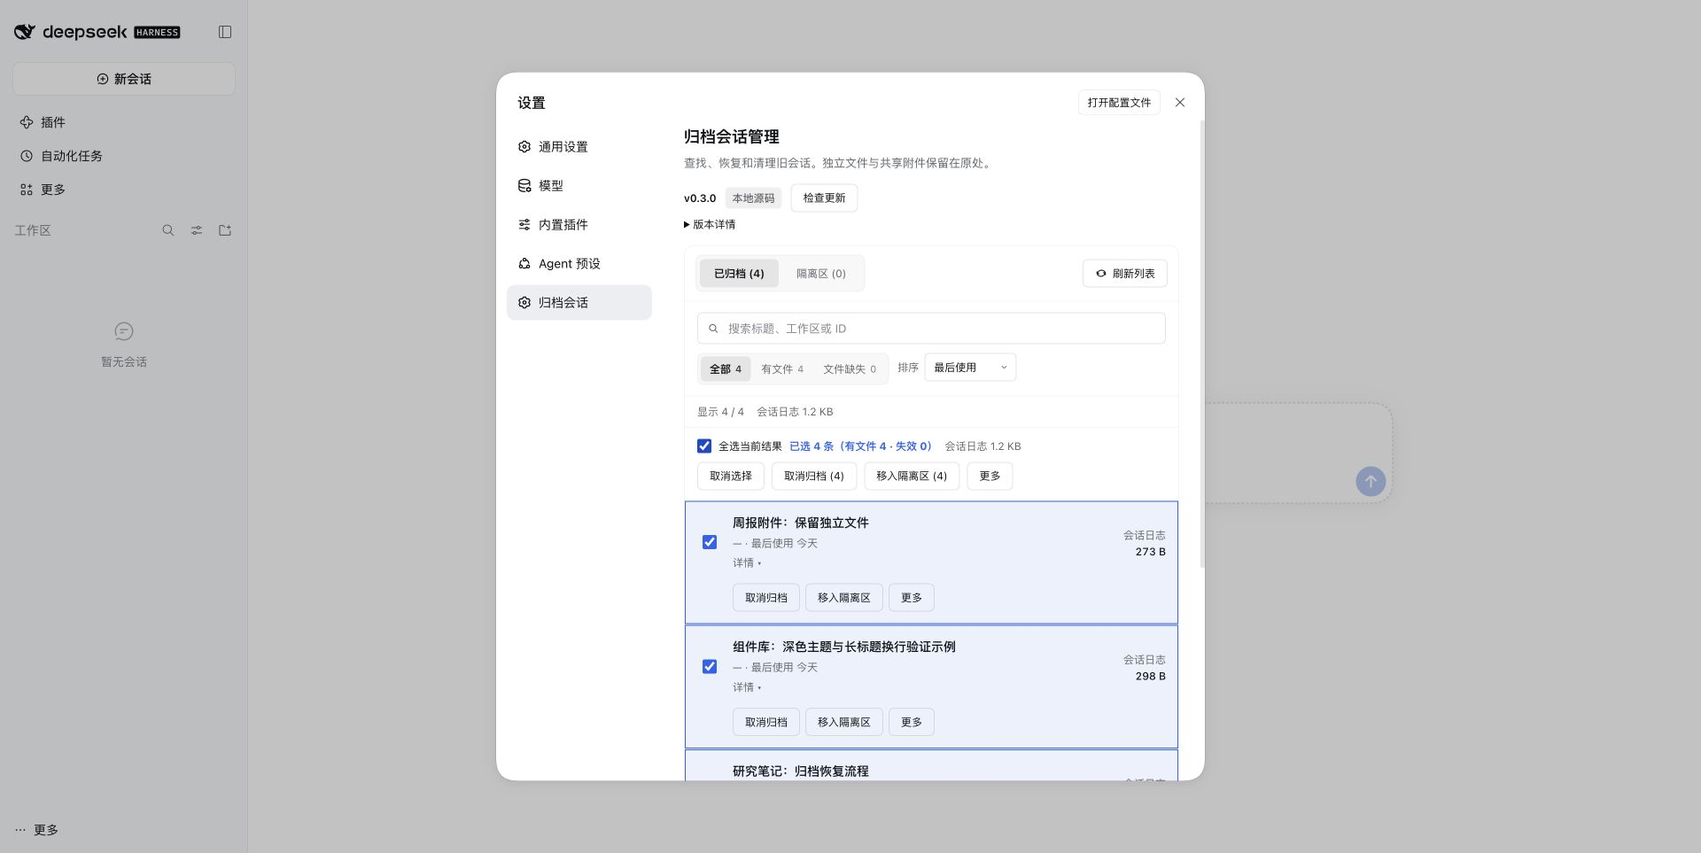
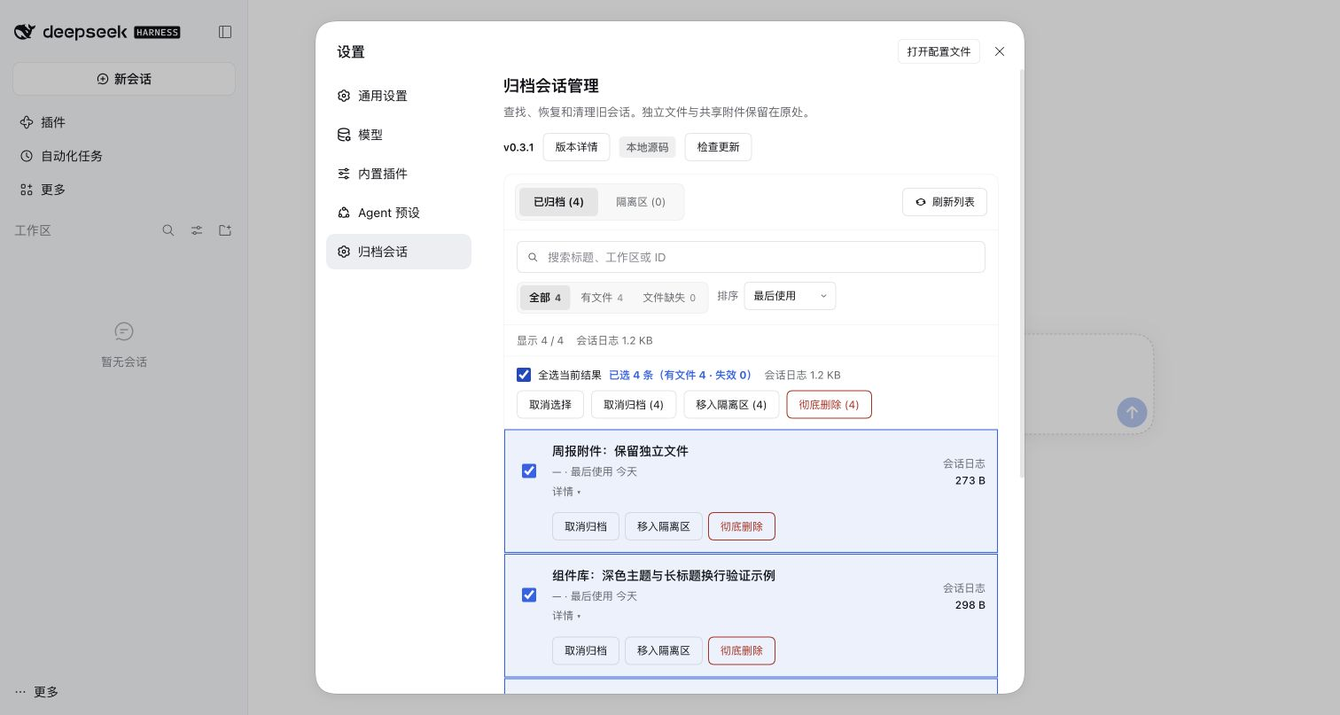
fix: keep version details inline and expose delete actions

diff --git a/client/index.js b/client/index.js
@@ -10,7 +10,7 @@ window.__ModuleLoader__.load({ id: "dsh-archived-manager", factory: (require) =>
 	var useEffect = React.useEffect;
 
 	var API = "/archived-manager";
-	var CLIENT_VERSION = "0.3.0";
+	var CLIENT_VERSION = "0.3.1";
 	var MAX_BATCH = 200;
 	var LANG = typeof navigator !== "undefined" && navigator.language ? String(navigator.language).toLowerCase() : "";
 	var ZH = LANG.indexOf("zh") === 0;
@@ -178,7 +178,6 @@ window.__ModuleLoader__.load({ id: "dsh-archived-manager", factory: (require) =>
 		errSchedule: "提醒停止失败",
 		errGeneric: "操作失败",
 		clearSelection: "取消选择",
-		more: "更多",
 		details: "详情",
 		files: "已记录的关联文件",
 		loadFiles: "查看关联文件",
@@ -414,7 +413,6 @@ window.__ModuleLoader__.load({ id: "dsh-archived-manager", factory: (require) =>
 		errSchedule: "Failed to stop reminders",
 		errGeneric: "The operation failed",
 		clearSelection: "Clear selection",
-		more: "More",
 		details: "Details",
 		files: "Recorded associated files",
 		loadFiles: "View associated files",
@@ -741,10 +739,10 @@ window.__ModuleLoader__.load({ id: "dsh-archived-manager", factory: (require) =>
 		"@media (max-width:860px){.am-row{grid-template-columns:24px minmax(0,1fr)}.am-row-actions{grid-column:2;justify-self:start;padding-top:6px}.am-row-plain{grid-template-columns:minmax(0,1fr)}.am-row-plain .am-row-actions{grid-column:1}}",
 		"@media (max-width:720px){.am-search{flex-basis:100%}.am-sort{margin-left:auto}}",
 		".am-page{gap:14px;min-width:0}.am-workbench{container-type:inline-size}",
-		".am-head{flex-wrap:wrap;gap:12px}.am-head-text{flex:1 1 270px}.am-version{flex:0 1 420px;min-width:0;font-size:12px;line-height:1.6}.am-version-line,.am-update-result{display:flex;align-items:center;gap:10px;flex-wrap:wrap}.am-version-label{font-weight:600}.am-version-details{margin-top:4px}.am-version-details summary{cursor:pointer;width:max-content}.am-version a{color:var(--am-accent);text-decoration:underline}.am-update-result{margin-top:6px}.am-help{font-size:12px;line-height:1.6;color:var(--am-text-secondary)}",
+		".am-head{flex-wrap:wrap;gap:12px}.am-head-text{flex:1 1 270px}.am-version{flex:0 1 420px;min-width:0;font-size:12px;line-height:1.6}.am-version-line,.am-update-result{display:flex;align-items:center;gap:10px;flex-wrap:wrap}.am-version-label{font-weight:600}.am-version-details{margin-top:8px;padding:8px 10px;border:1px solid var(--dsw-alias-border-l1,rgba(127,127,127,.16));border-radius:8px}.am-version a{color:var(--am-accent);text-decoration:underline}.am-update-result{margin-top:6px}.am-help{font-size:12px;line-height:1.6;color:var(--am-text-secondary)}",
 		".am-summary{display:flex;gap:14px;flex-wrap:wrap;padding:9px 14px;color:var(--am-text-secondary);font-size:12px;border-bottom:1px solid var(--dsw-alias-border-l1,rgba(127,127,127,.12))}.am-toolbar{gap:8px}.am-selected-count{font-size:12px;font-weight:700;color:var(--am-accent)}.am-batch-limit{flex-basis:100%;color:var(--am-warning);font-size:12px}.am-notice{padding:9px 14px;font-size:12px;color:var(--am-text-secondary);border-bottom:1px solid var(--dsw-alias-border-l1,rgba(127,127,127,.12))}",
 		".am-list{overflow:visible}.am-row{grid-template-columns:28px minmax(120px,1fr) minmax(64px,90px) auto;gap:12px;padding:14px}.am-row-title{display:-webkit-box;-webkit-line-clamp:2;-webkit-box-orient:vertical;white-space:normal;overflow:hidden;overflow-wrap:anywhere;border:0;padding:0;background:transparent;color:var(--am-text-primary);text-align:left;cursor:pointer;font:inherit;font-size:14px;font-weight:500;line-height:1.5}.am-row-title:focus-visible,.am-page summary:focus-visible,.am-search-clear:focus-visible{outline:2px solid var(--am-accent);outline-offset:3px}.am-titleline{align-items:flex-start}.am-check-target{display:flex;width:28px;min-height:28px;align-items:center;justify-content:center;cursor:pointer}.am-check{margin:0}.am-log-size{display:flex;flex-direction:column;gap:2px;align-items:flex-end;font-size:12px;font-variant-numeric:tabular-nums}.am-log-size strong{font-weight:500}.am-badge{font-size:12px}.am-row-actions{gap:6px;max-width:100%}",
-		".am-more{position:relative;display:inline-flex}.am-action-menu{position:absolute;right:0;top:calc(100% + 5px);z-index:100;min-width:170px;max-width:min(300px,70vw);padding:4px;border:1px solid var(--dsw-alias-border-l2,rgba(127,127,127,.3));border-radius:10px;background:var(--am-surface);box-shadow:0 8px 24px rgba(0,0,0,.2)}.am-action-menu .am-select-option{white-space:normal;overflow-wrap:anywhere}.am-danger-text{color:var(--am-danger)}.am-warning-text{color:var(--am-warning);overflow-wrap:anywhere}.am-select-option:disabled{color:var(--am-text-tertiary);cursor:not-allowed}.am-details{grid-column:2/-1;min-width:0;padding-top:10px;border-top:1px solid var(--dsw-alias-border-l1,rgba(127,127,127,.16));font-size:12px;line-height:1.6}.am-path{overflow-wrap:anywhere;white-space:pre-wrap;user-select:text}.am-file-list{display:flex;flex-direction:column;gap:8px;margin-top:12px}.am-file-list p{margin:0}.am-file{display:flex;flex-direction:column;align-items:flex-start;gap:5px;padding:10px;border:1px solid var(--dsw-alias-border-l1,rgba(127,127,127,.16));border-radius:8px;min-width:0}.am-file>div{max-width:100%}.am-report-item{white-space:normal;overflow-wrap:anywhere;overflow:visible}.am-report-actions{gap:8px;flex-wrap:wrap}.am-retention-settings{display:flex;align-items:center;gap:10px;flex-wrap:wrap;flex-basis:100%}.am-retention-hint{min-width:0}.am-search{min-width:0}.am-modal{background:var(--am-surface)}.am-modal-actions{flex-wrap:wrap}.am-chip:disabled{cursor:not-allowed;color:var(--am-text-tertiary)}",
+		".am-warning-text{color:var(--am-warning);overflow-wrap:anywhere}.am-select-option:disabled{color:var(--am-text-tertiary);cursor:not-allowed}.am-details{grid-column:2/-1;min-width:0;padding-top:10px;border-top:1px solid var(--dsw-alias-border-l1,rgba(127,127,127,.16));font-size:12px;line-height:1.6}.am-path{overflow-wrap:anywhere;white-space:pre-wrap;user-select:text}.am-file-list{display:flex;flex-direction:column;gap:8px;margin-top:12px}.am-file-list p{margin:0}.am-file{display:flex;flex-direction:column;align-items:flex-start;gap:5px;padding:10px;border:1px solid var(--dsw-alias-border-l1,rgba(127,127,127,.16));border-radius:8px;min-width:0}.am-file>div{max-width:100%}.am-report-item{white-space:normal;overflow-wrap:anywhere;overflow:visible}.am-report-actions{gap:8px;flex-wrap:wrap}.am-retention-settings{display:flex;align-items:center;gap:10px;flex-wrap:wrap;flex-basis:100%}.am-retention-hint{min-width:0}.am-search{min-width:0}.am-modal{background:var(--am-surface)}.am-modal-actions{flex-wrap:wrap}.am-chip:disabled{cursor:not-allowed;color:var(--am-text-tertiary)}",
 		"@container (max-width:820px){.am-row{grid-template-columns:28px minmax(0,1fr) auto}.am-row-actions{grid-column:2/-1;justify-self:start;justify-content:flex-start;padding-top:2px}.am-log-size{grid-column:3;grid-row:1}.am-details{grid-column:2/-1}.am-search{flex-basis:100%}.am-controls{align-items:flex-start}.am-sort{margin-left:0}}",
 		"@container (max-width:480px){.am-row{grid-template-columns:28px minmax(0,1fr);gap:8px}.am-log-size{grid-column:2;grid-row:auto;flex-direction:row;gap:8px;align-items:baseline}.am-row-actions{grid-column:2;flex-wrap:wrap}.am-btn{white-space:normal;height:auto;min-height:32px;padding:6px 10px;line-height:1.4}.am-row-title{-webkit-line-clamp:3}.am-filter{flex-wrap:wrap}.am-viewbar{gap:6px}.am-tab{padding:0 10px}.am-head{display:block}.am-version{margin-top:10px}.am-time{white-space:normal}.am-details{grid-column:1/-1}.am-modal-backdrop{padding:12px}}",
 	].join("\n");
@@ -838,6 +836,8 @@ window.__ModuleLoader__.load({ id: "dsh-archived-manager", factory: (require) =>
 		var updateError = updateErrorState[0], setUpdateError = updateErrorState[1];
 		var removedWarningsState = useState([]);
 		var removedWarnings = removedWarningsState[0], setRemovedWarnings = removedWarningsState[1];
+		var versionDetailsState = useState(false);
+		var versionDetails = versionDetailsState[0], setVersionDetails = versionDetailsState[1];
 		var locked = busy || Boolean(update && update.busy) || updatePhase === "preparing" || phase !== "ready";
 		var actionRef = React.useRef(false);
 		var updateRef = React.useRef(false);
@@ -923,7 +923,7 @@ window.__ModuleLoader__.load({ id: "dsh-archived-manager", factory: (require) =>
 		useEffect(function () {
 			if (menu === null || !menuRef.current) return;
 			var target = menuRef.current.querySelector('[aria-selected="true"]')
-				|| menuRef.current.querySelector('[role="option"]') || menuRef.current.querySelector('[role="menuitem"]:not(:disabled)');
+				|| menuRef.current.querySelector('[role="option"]');
 			if (target && typeof target.focus === "function") target.focus();
 		}, [menu]);
 
@@ -1358,7 +1358,7 @@ window.__ModuleLoader__.load({ id: "dsh-archived-manager", factory: (require) =>
 				setToast({ kind: "bad", text: tr("batchLimit") });
 				return;
 			}
-			returnFocusRef.current = menu && menuTriggerRef.current ? menuTriggerRef.current : document.activeElement;
+			returnFocusRef.current = document.activeElement;
 			setMenu(null);
 			setConfirm(value);
 		}
@@ -1369,29 +1369,6 @@ window.__ModuleLoader__.load({ id: "dsh-archived-manager", factory: (require) =>
 			} }, label);
 		}
 
-		function moreMenu(id, actions, label) {
-			var open = menu === id;
-			return h("div", { key: id, className: "am-more" }, [
-				h("button", { key: "trigger", type: "button", className: "am-btn", disabled: locked, "aria-haspopup": "menu", "aria-expanded": open,
-					onClick: function (event) { if (locked || actionRef.current) return; menuTriggerRef.current = event.currentTarget; setMenu(open ? null : id); },
-					onKeyDown: function (event) { if (event.key === "ArrowDown" && !locked) { event.preventDefault(); menuTriggerRef.current = event.currentTarget; setMenu(id); } }
-				}, label || tr("more")),
-				open ? h("div", { key: "menu", className: "am-action-menu", role: "menu", ref: menuRef, "aria-label": label || tr("more"), onKeyDown: function (event) {
-					if (!menuRef.current) return;
-					var nodes = Array.prototype.slice.call(menuRef.current.querySelectorAll('[role="menuitem"]:not(:disabled)'));
-					var current = nodes.indexOf(document.activeElement), next;
-					if (event.key === "ArrowDown") next = (current + 1) % nodes.length;
-					else if (event.key === "ArrowUp") next = (current + nodes.length - 1) % nodes.length;
-					else if (event.key === "Home") next = 0;
-					else if (event.key === "End") next = nodes.length - 1;
-					if (next !== undefined && nodes[next]) { event.preventDefault(); nodes[next].focus(); }
-				} }, actions.map(function (action) {
-					return h("button", { key: action.key, type: "button", role: "menuitem", className: "am-select-option am-danger-text", disabled: locked || action.disabled,
-						onClick: function () { if (!locked && !action.disabled && !actionRef.current) action.run(); }
-					}, action.label);
-				})) : null
-			]);
-		}
 
 		function fileKey(item) { return item.batch ? keyOf(item) : item.id; }
 		function fileRequest(item) { return item.batch ? { id: item.id, batch: item.batch } : { id: item.id }; }
@@ -1492,7 +1469,7 @@ window.__ModuleLoader__.load({ id: "dsh-archived-manager", factory: (require) =>
 			var actions = item.running ? h("span", { className: "am-help" }, tr("runningLocked")) : item.missing
 				? button("cleanup", tr("cleanup"), function () { openConfirm({ kind: "cleanup", ids: [item.id], checked: true }); }, locked)
 				: [button("unarchive", tr("unarchive"), function () { runUnarchive([item.id]); }, locked), button("hide", tr("hide"), function () { openConfirm({ kind: "hide", ids: [item.id], checked: true }); }, locked),
-					moreMenu("more-" + item.id, [{ key: "purge", label: tr("purge"), run: function () { openConfirm({ kind: "purge", ids: [item.id], checked: false }); } }])];
+					button("purge", tr("purge"), function () { openConfirm({ kind: "purge", ids: [item.id], checked: false }); }, locked, true)];
 			return h("div", { key: item.id, className: "am-row" + (checked ? " selected" : ""), role: "listitem" }, [
 				h("label", { key: "check", className: "am-check-target" }, h("input", { type: "checkbox", className: "am-check", checked: checked, disabled: locked || Boolean(item.running), onChange: function () { if (!item.running) toggle(item.id); }, "aria-label": item.title || item.id })),
 				rowMain(item, false),
@@ -1507,7 +1484,7 @@ window.__ModuleLoader__.load({ id: "dsh-archived-manager", factory: (require) =>
 				rowMain(entry, true),
 				h("div", { key: "size", className: "am-log-size", title: entry.sizeWarning || entry.protectionReason }, [h("span", { key: "label", className: "am-help" }, tr("logSize")), h("strong", { key: "value" }, logSizeText(entry, true))]),
 				h("div", { key: "actions", className: "am-row-actions" }, [button("restore", tr("restore"), function () { runRestore([{ batch: entry.batch, id: entry.id }]); }, locked),
-					moreMenu("more-" + key, [{ key: "discard", label: tr("purge"), run: function () { openConfirm({ kind: "discard", items: [{ batch: entry.batch, id: entry.id }], checked: false }); } }])]),
+					button("discard", tr("purge"), function () { openConfirm({ kind: "discard", items: [{ batch: entry.batch, id: entry.id }], checked: false }); }, locked, true)]),
 				details(entry, true)
 			]);
 		}
@@ -1557,15 +1534,16 @@ window.__ModuleLoader__.load({ id: "dsh-archived-manager", factory: (require) =>
 			return h("div", { key: "version", className: "am-version" }, [
 				h("div", { key: "line", className: "am-version-line" }, [
 					h("span", { key: "version", className: "am-version-label" }, mismatch ? tr("pendingUpdate") : confirmed ? "v" + CLIENT_VERSION : tr("versionChecking", { version: CLIENT_VERSION })),
+					h("button", { key: "details-toggle", type: "button", className: "am-btn am-version-toggle", "aria-expanded": versionDetails, "aria-controls": "am-version-details", onClick: function () { setVersionDetails(!versionDetails); } }, tr("versionDetails")),
 					source === "link" ? h("span", { key: "source", className: "am-badge muted" }, tr("localSource")) : null,
 					button("check", updatePhase === "checking" ? tr("checkingUpdate") : tr("checkUpdate"), checkUpdate, updatePhase !== "" || Boolean(update && update.busy))
 				]),
-				h("details", { key: "details", className: "am-version-details" }, [h("summary", { key: "summary" }, tr("versionDetails")),
+				versionDetails ? h("div", { key: "details", id: "am-version-details", className: "am-version-details" }, [
 					h("div", { key: "page" }, tr("pageVersion") + "：v" + CLIENT_VERSION),
 					h("div", { key: "runtime" }, tr("serviceVersion") + "：" + (update && update.runtimeVersion || tr("notProvided"))),
 					h("div", { key: "installed" }, tr("installedVersion") + "：" + (update && update.installedVersion || tr("notProvided"))),
 					h("div", { key: "source" }, tr("source") + "：" + sourceText)
-				]),
+				]) : null,
 				updateError ? h("div", { key: "error", className: "am-warning-text", role: "status" }, updateError) : null,
 				update && update.busy ? h("div", { key: "busy", role: "status" }, tr("updateBusy")) : null,
 				release ? h("div", { key: "release", className: "am-update-result" }, [
@@ -1924,14 +1902,14 @@ window.__ModuleLoader__.load({ id: "dsh-archived-manager", factory: (require) =>
 				actions.push(button("clear", tr("clearSelection"), function () { if (actionRef.current) return; if (isRemoved) setRemovedSelected([]); else setSelected([]); }, locked));
 				if (isRemoved) {
 					actions.push(button("restore", tr("restore") + " (" + targets.length + ")", function () { runRestore(targets); }, locked || targets.length > MAX_BATCH));
-					actions.push(moreMenu("removed-batch", [{ key: "discard", label: tr("purge") + " (" + targets.length + ")", disabled: targets.length > MAX_BATCH, run: function () { openConfirm({ kind: "discard", items: targets, checked: false }); } }]));
+					actions.push(button("discard", tr("purge") + " (" + targets.length + ")", function () { openConfirm({ kind: "discard", items: targets, checked: false }); }, locked || targets.length > MAX_BATCH, true));
 				} else {
 					if (filesIds.length > 0) {
 						actions.push(button("unarchive", tr("unarchive") + " (" + filesIds.length + ")", function () { runUnarchive(filesIds, missingIds); }, locked || filesIds.length > MAX_BATCH));
 						actions.push(button("hide", tr("hide") + " (" + filesIds.length + ")", function () { openConfirm({ kind: "hide", ids: filesIds, ignored: missingIds.length, ignoredIds: missingIds, checked: true }); }, locked || filesIds.length > MAX_BATCH));
 					}
 					if (missingIds.length > 0) actions.push(button("cleanup", tr("cleanup") + " (" + missingIds.length + ")", function () { openConfirm({ kind: "cleanup", ids: missingIds, checked: true }); }, locked || missingIds.length > MAX_BATCH));
-					if (filesIds.length > 0) actions.push(moreMenu("archived-batch", [{ key: "purge", label: tr("purge") + " (" + filesIds.length + ")", disabled: filesIds.length > MAX_BATCH, run: function () { openConfirm({ kind: "purge", ids: filesIds, ignored: missingIds.length, ignoredIds: missingIds, checked: false }); } }]));
+					if (filesIds.length > 0) actions.push(button("purge", tr("purge") + " (" + filesIds.length + ")", function () { openConfirm({ kind: "purge", ids: filesIds, ignored: missingIds.length, ignoredIds: missingIds, checked: false }); }, locked || filesIds.length > MAX_BATCH, true));
 				}
 			}
 			return h("div", { key: "toolbar", className: "am-toolbar" }, [
@@ -1965,7 +1943,7 @@ window.__ModuleLoader__.load({ id: "dsh-archived-manager", factory: (require) =>
 			return h("div", { key: "retention", className: "am-retention" }, [
 				h("span", { key: "summary", className: "am-retention-label" }, tr("retentionSummary", { value: settings.unavailable ? tr("notProvided") : settings.trashRetentionDays > 0 ? tr("retentionAfter", { n: settings.trashRetentionDays }) : tr("retentionDisabled") })),
 				button("settings", tr("settings"), function () { setRetentionExpanded(!retentionExpanded); }, locked || settings.unavailable),
-				removed.length > 0 ? moreMenu("quarantine-global", [{ key: "empty", label: tr("emptyTrash") + " (" + removed.length + ")", run: function () { openConfirm({ kind: "empty", items: removedItems(removed), checked: false }); } }], tr("tabRemoved") + " · " + tr("more")) : null,
+				removed.length > 0 ? button("empty", tr("emptyTrash") + " (" + removed.length + ")", function () { openConfirm({ kind: "empty", items: removedItems(removed), checked: false }); }, locked, true) : null,
 				retentionExpanded ? h("div", { key: "settingsPanel", className: "am-retention-settings" }, [h("span", { key: "title" }, tr("retentionTitle")), dropdown("retention", String(settings.trashRetentionDays || 0), [{ value: "0", label: tr("retentionNever") }, { value: "7", label: tr("retentionDays", { n: 7 }) }, { value: "30", label: tr("retentionDays", { n: 30 }) }, { value: "90", label: tr("retentionDays", { n: 90 }) }], changeRetention, tr("retentionLabel"), false), h("span", { key: "hint", className: "am-retention-hint" }, tr("retentionHint"))]) : null
 			]);
 		}

diff --git a/README.md b/README.md
@@ -26,7 +26,7 @@
 2. 输入以下 spec：
 
    ```text
-   github:chen1pengvincent/dsh-archived-manager#v0.3.0
+   github:chen1pengvincent/dsh-archived-manager#v0.3.1
    ```
 
 3. 安装后**完全退出并重新打开 DSH**，再硬刷新页面（macOS：`Cmd+Shift+R`）。
@@ -63,7 +63,7 @@ link:/absolute/path/to/dsh-archived-manager
 | 彻底删除 | 永久删除已确认的会话数据，需确认 | 使用“清理失效记录” |
 | 清理失效记录 | 不适用 | 只移除归档记录 |
 
-运行中的会话不可选择或删除；请先停止对应会话。取消归档与移入隔离区为直接入口，彻底删除收进“更多”。顶部摘要紧凑显示当前数量和日志大小。
+运行中的会话不可选择或删除；请先停止对应会话。取消归档、移入隔离区和彻底删除均为直接入口；彻底删除仍需在确认框中核对范围并确认不可恢复。顶部摘要紧凑显示当前数量和日志大小。版本详情与版本号同排，点击或通过键盘展开后可查看页面、服务和安装版本。
 
 ### 选中与高亮契约
 
@@ -84,7 +84,7 @@ link:/absolute/path/to/dsh-archived-manager
 
 - 单独或批量**恢复**到原会话目录；
 - 单独或批量**彻底删除**；
-- 在全局“更多”中**清空隔离区全部会话**，包含搜索隐藏的项；
+- 使用独立的**清空隔离区**按钮处理全部隔离会话，包含搜索隐藏的项；
 - 配置自动保留期限。开启自动清理需要二次确认，保存后立即检查过期条目。
 
 危险操作使用模态确认框，并要求勾选不可恢复确认。界面语言跟随 **DSH → 设置 → 通用 → 语言**，旧版缺少 locale 服务时才回退到浏览器语言。
@@ -177,6 +177,12 @@ npm pack
 
 测试覆盖 Host 文件操作、路径与路由安全、归档/隔离/恢复/删除、保留策略、Client 设置页注册、搜索筛选、模态框、选中行高亮（全选/单选/无选择）、隔离区高亮、深浅主题和 WCAG 对比度。GitHub Actions 对 push 和 pull request 自动运行测试。
 
+### v0.3.1
+
+- 版本详情与版本号同排，收起时不再单独占一行；保留点击与键盘展开。
+- 单条与批量的彻底删除改为直接按钮，清空隔离区保留独立的全局入口；确认范围、不可恢复确认及操作期间禁用保持不变。
+- 更新真实 DSH 测试会话的深浅主题截图。
+
 ### v0.3.0
 
 - 重排列表与紧凑摘要，统一归档和隔离区的选择反馈，强调已选数量。
@@ -200,7 +206,7 @@ npm pack
 Open **DSH → Settings → Plugins → Install** and enter:
 
 ```text
-github:chen1pengvincent/dsh-archived-manager#v0.3.0
+github:chen1pengvincent/dsh-archived-manager#v0.3.1
 ```
 
 Fully restart DSH after installation, hard-refresh the Web UI, then open **Settings → Archived Sessions**. Node.js 24+ is needed only for development and tests.
@@ -217,7 +223,9 @@ The recorded-files view shows structured delivery/write/edit paths and can open 
 
 Manual updates use a separate control page that survives removal of the target plugin, verifies the pinned release package before removal, and offers retry or recovery. Keep DSH running during installation. If the whole process exits between removal and successful installation, recover through the native plugin manager using the displayed release address. Source-linked installs change source only after an explicit switch confirmation; the checkout remains untouched.
 
-See the Chinese sections above for the operation matrix, data paths, API table, security controls, development commands, and v0.3.0 release notes.
+Version details sit beside the version number and expand on click or keyboard activation. Permanent delete is directly available for single and selected sessions; clearing the entire quarantine has its own labeled control. Destructive actions still require the existing confirmation and remain disabled during operations.
+
+See the Chinese sections above for the operation matrix, data paths, API table, security controls, development commands, and release notes.
 
 ## License
 

diff --git a/docs/accessibility.md b/docs/accessibility.md
@@ -69,8 +69,12 @@
 
 顶部四张大统计卡改为当前结果的一行摘要；日志大小在宽窗口单独对齐，标题最多显示两行，完整标题、ID、日期和路径可以通过标题按钮展开。选择条保持中性背景，已选行使用完整背景与内描边，数量单独加粗并使用强调色。选择态仍由原生复选框表达，不只依赖颜色。
 
-会话详情和“更多”均可通过键盘打开。“更多”使用菜单角色，支持上下键、Home、End 和 Escape；确认框默认焦点在取消按钮，Tab 留在唯一的确认框中。关闭后优先返回仍可用的触发按钮；若触发点消失或不可用，则在列表刷新完成后返回当前标签的全选复选框，空列表或刷新失败时返回可用的刷新列表按钮。破坏性确认按钮明确写出数量。
+会话详情可通过键盘打开。单条与批量“彻底删除”、全局“清空隔离区”均直接显示危险色按钮；排序与保留期限下拉继续支持键盘操作。确认框默认焦点在取消按钮，Tab 留在唯一的确认框中。关闭后优先返回仍可用的触发按钮；若触发点消失或不可用，则在列表刷新完成后返回当前标签的全选复选框，空列表或刷新失败时返回可用的刷新列表按钮。破坏性确认按钮明确写出数量。
 
 列表工作台按实际内容宽度换行。820px 以下操作移到第二行，480px 以下日志大小合并到信息区；长路径按任意字符换行，可选中复制。正文辅助信息和徽章最低为 12px。弹窗置于响应式容器之外，保持相对视口定位。
 
 自动化交互验证覆盖：两种列表的选择和全选、混选、运行中排除、200/201 条动作边界、重复提交、部分失败完整展开、响应丢失后的刷新锁定、全区清空确认快照、按需读取文件位置、明确切换发布版和版本错配提示。模拟测试不能证明真实 DSH 的渲染、焦点、主题、缩放或文件管理器行为；这些仍需宿主验收。主题测试计算的是默认回退颜色，宿主实际令牌颜色需在真实主题下核对。未知日志大小显示“未确认”并明确未计入合计；已核对日志但包含额外文件时保留已知字节，详情说明保护原因。
+
+## v0.3.1 的入口调整
+
+版本号与“版本详情”按钮位于同一行，收起态不再为详情入口单独占一行；按钮通过 `aria-expanded` 和 `aria-controls` 关联下方的详情区域，可用 Tab、Enter 和空格操作，窄窗口自然换行。永久删除和全区清空改为直接按钮后，原有数量、确认勾选、200 条限制、操作冻结与完成后的焦点恢复保持不变。
